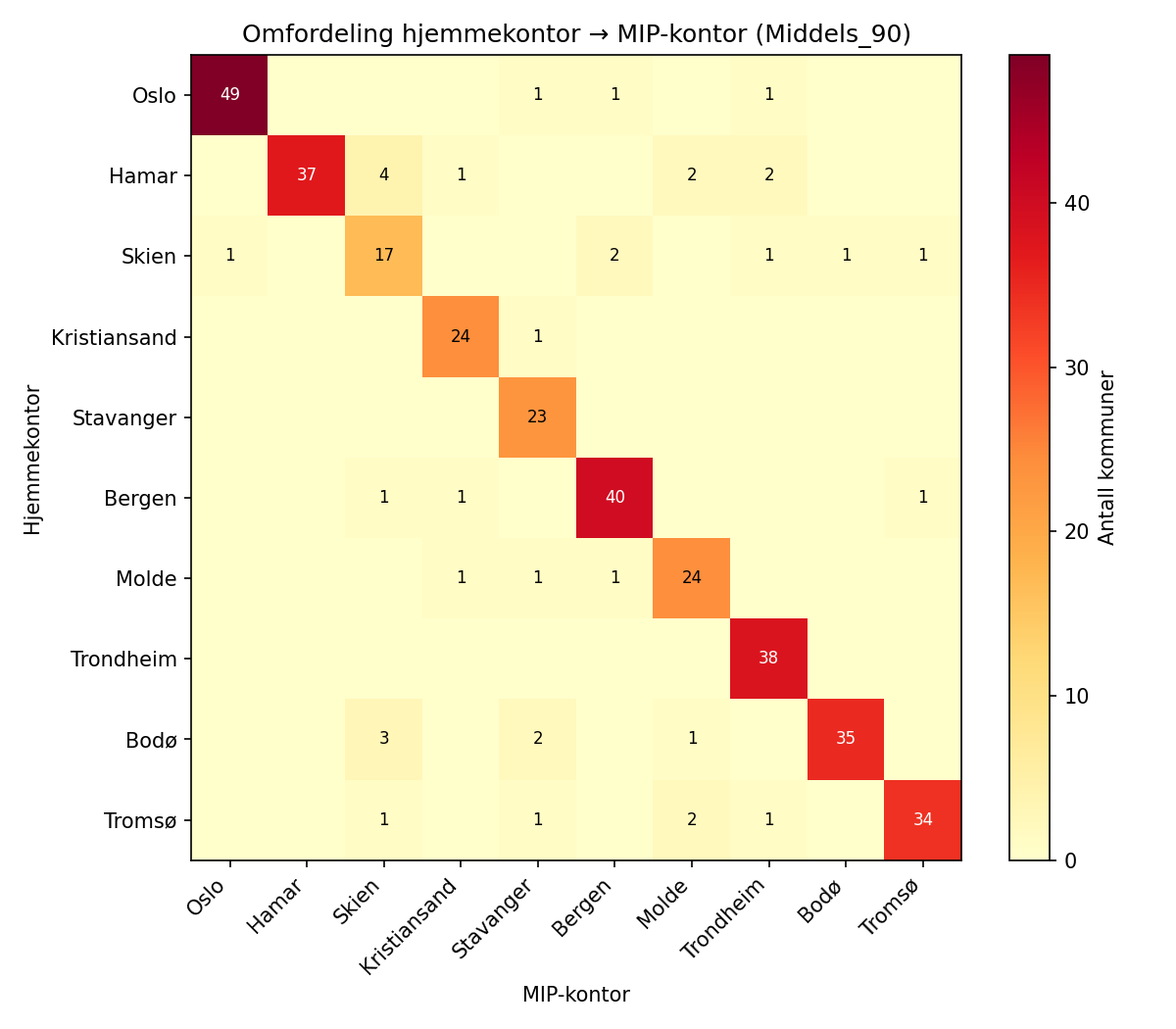
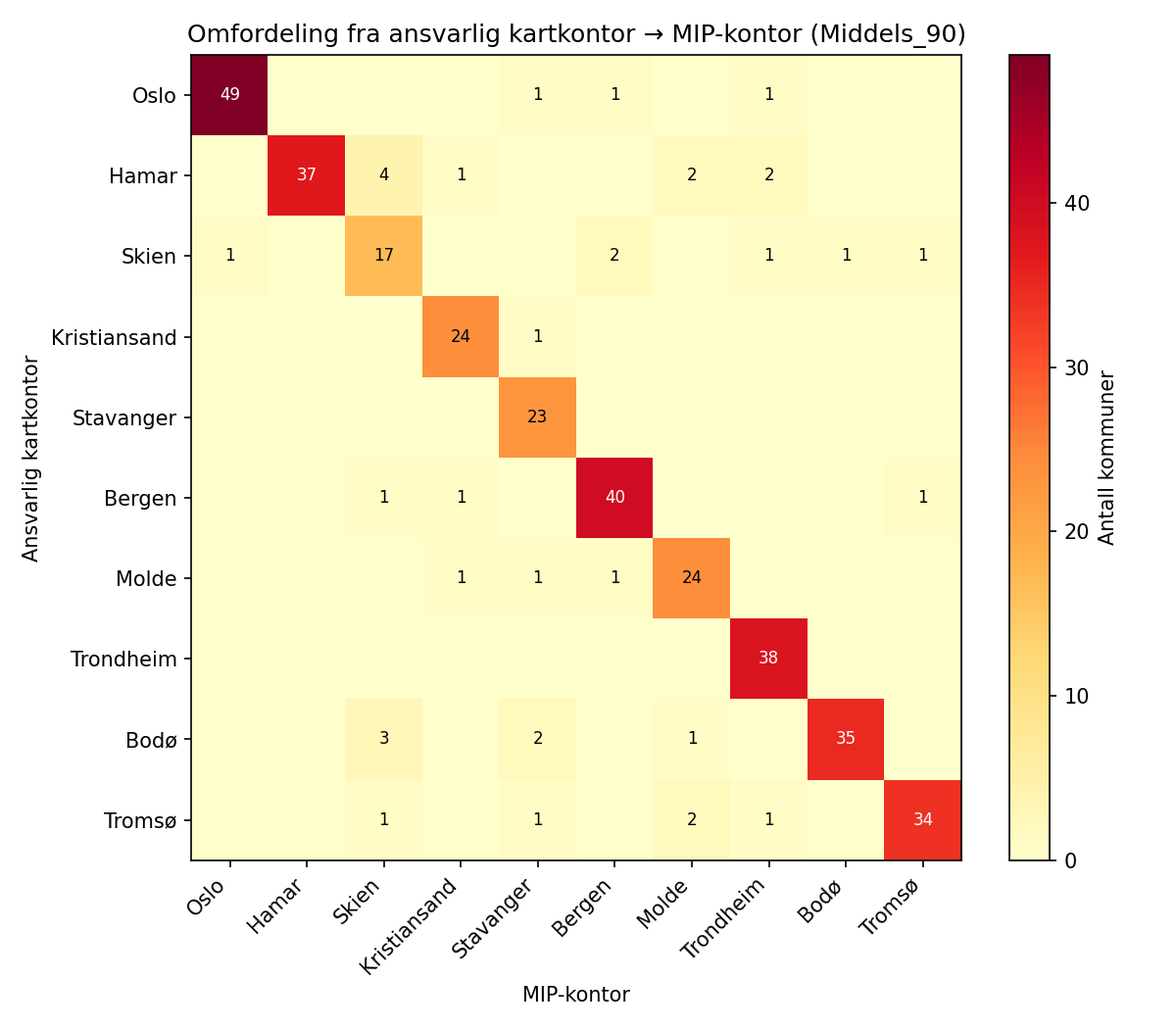
terminologi: hjemmekontor -> ansvarlig kartkontor
Erstatter "hjemmekontor" gjennomgående i synlig sluttprodukt:
- 005 report/rapport.md (14 forekomster i 4.3, 5.1.3, 6.1, 6.2.4, 7.1,
  7.3, 7.5, 8.1, 9.5; MIP-formel y_{i,hjem(i)} -> y_{i,ans(i)})
- 005 report/figurer/16_omfordeling_matrise.png (regenerert)
- 004 data/scripts/figurer_mip.py (akse-tekst og figurtittel)
- 004 data/scripts/{mip_modell,mip_kapasitet_sensitivitet,
  monte_carlo_mip,analyser_rekkefolge}.py (kommentarer)
- CLAUDE.md (historikk-tekst)

CSV-kolonnen Hjemmekontor i tidsplan_mip_*.csv og mip_sensitivitet_*.csv
beholdes uendret for naa - omdoping krever rerun av MIP-modell
(~16-65 min) og kapasitets-sensitivitet (~17 t bakgrunn). Utsatt til
etter peer review-fristen 29.04. Notert som TODO i CLAUDE.md.

Bakgrunn: "hjemmekontor" har dobbelttyding (work-from-home vs. kommunens
forvaltningsansvarlige kartkontor). "Ansvarlig kartkontor" er presist og
gjenspeiler at hver kommune har ett kartkontor med forvaltningsansvar.

Changed region(s): [[0.1542, 0.0, 0.8325, 0.061], [0.0, 0.3352, 0.0308, 0.5486]]

diff --git a/004 data/scripts/mip_modell.py b/004 data/scripts/mip_modell.py
@@ -361,7 +361,7 @@ def solve_vektet(prob, data, tidsgrense=SOLVER_TIDSGRENSE_SEK, gap=MIP_GAP, msg=
     Prioritering:
       1. makespan (W1 dominerer)
       2. kartkontor-ferdigtid tidlig (W2 dominerer inertia)
-      3. inertia: behold hjemmekontor ved like objektiv
+      3. inertia: behold ansvarlig kartkontor ved like objektiv
 
     w2_scale multipliserer W2. Verdi < 1 svekker kartkontor-ferdigtid-prioritet
     og gir mer vekt til inertia. Brukes til aa undersoke om faerre omfordelinger
@@ -568,8 +568,9 @@ def lagre_tidsplan(data, losning, mode='lex'):
     rader = []
     # Aktive kommuner (med MIP-assignment).
     # Ved Not Solved-timeout kan enkelte kommuner ha fraksjonelle y-verdier
-    # (ingen y > 0,5); disse faller tilbake til hjemmekontor og telles ikke
-    # som omfordelt, konsistent med Monte Carlo-tolkningen.
+    # (ingen y > 0,5); disse faller tilbake til ansvarlig kartkontor og telles
+    # ikke som omfordelt, konsistent med Monte Carlo-tolkningen.
+    # NB: CSV-kolonnen heter fortsatt 'Hjemmekontor' (utsatt rerun, se CLAUDE.md).
     for a in data['aktive']:
         kn = a['KomNr']
         kk_mnd = losning['ferdig_kk'].get(kn)
@@ -696,7 +697,7 @@ def main():
         print(f'  Makespan (mnd): {losning["makespan_mnd"]}')
         print(f'  Makespan (aar): {losning["makespan_mnd"] / 12:.2f}')
         # Kommuner uten y > 0,5 (Not Solved-fraksjonelle) faller tilbake til
-        # hjemmekontor og telles ikke som omfordelt. Konsistent med
+        # ansvarlig kartkontor og telles ikke som omfordelt. Konsistent med
         # lagre_tidsplan og monte_carlo_mip-tolkningen.
         n_reassigned = sum(
             1 for a in data['aktive']

diff --git a/004 data/scripts/figurer_mip.py b/004 data/scripts/figurer_mip.py
@@ -4,7 +4,7 @@ Figurer for MIP-modellering (Bolk E).
 Produserer figurer 14-19 i 005 report/figurer/.
   14 heuristikk_vs_mip.png      - makespan sammenligning per scenario
   15 kartkontor_ferdig.png      - fordeling av kartkontor-ferdigtid, heur vs MIP
-  16 omfordeling_matrise.png    - heatmap hjemmekontor -> MIP-kontor
+  16 omfordeling_matrise.png    - heatmap ansvarlig kartkontor -> MIP-kontor
   17 fanchart_mip.png           - kumulativ NVDB med MC-baand for MIP-plan
   18 kapasitet_sensitivitet.png - makespan per kapasitetsvariant (Bolk B)
   19 omfordeling_varianter.png  - antall omfordelte per variant
@@ -127,8 +127,8 @@ def fig16_omfordeling_matrise(scenario='Middels_90'):
     ax.set_yticks(range(len(ordre)))
     ax.set_yticklabels(ordre)
     ax.set_xlabel('MIP-kontor')
-    ax.set_ylabel('Hjemmekontor')
-    ax.set_title(f'Omfordeling hjemmekontor → MIP-kontor ({scenario})')
+    ax.set_ylabel('Ansvarlig kartkontor')
+    ax.set_title(f'Omfordeling fra ansvarlig kartkontor → MIP-kontor ({scenario})')
     for i in range(len(ordre)):
         for j in range(len(ordre)):
             v = matrise.values[i, j]

diff --git a/004 data/scripts/mip_kapasitet_sensitivitet.py b/004 data/scripts/mip_kapasitet_sensitivitet.py
@@ -77,8 +77,9 @@ def juster_kapasitet(kontorer_df, endring):
 
 def lagre_tidsplan(data, losning, filnavn):
     # Ved Not Solved-timeout kan enkelte kommuner ha fraksjonelle y-verdier
-    # (ingen y > 0,5); disse faller tilbake til hjemmekontor og telles ikke
-    # som omfordelt, konsistent med Monte Carlo-tolkningen.
+    # (ingen y > 0,5); disse faller tilbake til ansvarlig kartkontor og telles
+    # ikke som omfordelt, konsistent med Monte Carlo-tolkningen.
+    # NB: CSV-kolonnen heter fortsatt 'Hjemmekontor' (utsatt rerun, se CLAUDE.md).
     rader = []
     for a in data['aktive']:
         kn = a['KomNr']
@@ -152,7 +153,7 @@ def main():
 
             los = ekstraher_loesning(prob, data)
             # Kommuner uten y > 0,5 (Not Solved-fraksjonelle) faller tilbake
-            # til hjemmekontor og telles ikke som omfordelt.
+            # til ansvarlig kartkontor og telles ikke som omfordelt.
             n_reassigned = sum(
                 1 for a in data['aktive']
                 if (los['assignment'].get(a['KomNr']) or a['Hjemmekontor']) != a['Hjemmekontor']

diff --git a/004 data/scripts/monte_carlo_mip.py b/004 data/scripts/monte_carlo_mip.py
@@ -2,7 +2,7 @@
 Monte Carlo usikkerhetsanalyse med MIP-assignment som fast tildeling.
 
 Leser tidsplan_mip_vektet_<scenario>.csv (MIP's optimale tildeling per kommune),
-overstyrer hjemmekontor-tildelingen i master_kommuner slik at heuristikkens
+overstyrer ansvarlig-kartkontor-tildelingen i master_kommuner slik at heuristikkens
 simulator bruker MIP-tildelingen, og kjorer deretter eksisterende Monte Carlo-
 motor med samme 500 iterasjoner og 3 stokastiske kilder.
 

diff --git a/004 data/scripts/analyser_rekkefolge.py b/004 data/scripts/analyser_rekkefolge.py
@@ -4,7 +4,7 @@ Spor: hvor robust er kommune-rekkefolgen?
 - Heuristikk vs MIP
 - Pa tvers av 3 NVDB-scenarioer
 - Per kontor: hvilke kommuner gar alltid forst/sist?
-- Effekt av storrelse, lasing, hjemmekontor-tilhorighet?
+- Effekt av storrelse, lasing, ansvarlig-kartkontor-tilhorighet?
 """
 
 import sys

diff --git a/005 report/rapport.md b/005 report/rapport.md
@@ -191,7 +191,7 @@ Kartkontor (kvalitetsheving) ──► Samferdselsavdelingen (NVDB-overføring v
 
 ## 4.3 De 10 fylkeskartkontorene
 
-Kartverket har 10 fylkeskartkontor som hver i dag har ansvar for sine fylker, og hver kommune kvalitetsheves av sitt "hjemme-kontor". Denne geografiske tildelingen er prosjektets utgangspunkt, men ikke en fastlåst begrensning: ett av hovedspørsmålene i analysen er om total varighet kan reduseres ved å omfordele kommuner mellom kontor, slik at kontor med god kapasitet avlaster kontor med høy arbeidsbelastning.
+Kartverket har 10 fylkeskartkontor som hver i dag har ansvar for sine fylker, og hver kommune kvalitetsheves av sitt ansvarlige kartkontor. Denne geografiske tildelingen er prosjektets utgangspunkt, men ikke en fastlåst begrensning: ett av hovedspørsmålene i analysen er om total varighet kan reduseres ved å omfordele kommuner mellom kontor, slik at kontor med god kapasitet avlaster kontor med høy arbeidsbelastning.
 
 ![Figur 1: Fylkeskartkontor og antall kommuner per kontor](figurer/01_kart_kontorer.png)
 
@@ -267,7 +267,7 @@ MIP-modellen har en vektet lex-opt-målfunksjon med tre nivåer:
 
 $$\min\; W_1 \cdot \text{makespan} + W_2 \cdot \text{kartkontor-ferdigtid} + \text{inertia}$$
 
-der $W_1 \gg W_2 \cdot \max(\text{kartkontor-ferdigtid}) + \max(\text{inertia})$ og $W_2 \gg \max(\text{inertia})$. Prioritet 1 er total varighet (NVDB-fasen), prioritet 2 er komprimering av kartkontor-fasen, prioritet 3 er å beholde hjemmekontor-tildeling ved like løsninger. Dette gir en enkeltpass-løsning som kombinerer effektivitet med matematisk korrekthet. Metoden er raskere og mer stabil enn sekvensiell lex-opt, og gir identiske makespan-resultater. Inertia-termen er essensiell for å hindre MIP i å omfordele kommuner "gratis" som ikke bidrar til målfunksjonen.
+der $W_1 \gg W_2 \cdot \max(\text{kartkontor-ferdigtid}) + \max(\text{inertia})$ og $W_2 \gg \max(\text{inertia})$. Prioritet 1 er total varighet (NVDB-fasen), prioritet 2 er komprimering av kartkontor-fasen, prioritet 3 er å beholde ansvarskontor-tildeling ved like løsninger. Dette gir en enkeltpass-løsning som kombinerer effektivitet med matematisk korrekthet. Metoden er raskere og mer stabil enn sekvensiell lex-opt, og gir identiske makespan-resultater. Inertia-termen er essensiell for å hindre MIP i å omfordele kommuner "gratis" som ikke bidrar til målfunksjonen.
 
 ### 5.1.4 NVDB-throughput-formel og dens struktur
 
@@ -397,7 +397,7 @@ $$t_i = \frac{\tau_i}{60} \cdot \frac{\ell^{\text{rest}}_i}{\ell_i}$$
 
 der $\tau_i$ er beregnet tidsbruk i minutter (fra formel 5.2.3), $\ell^{\text{rest}}_i$ er gjenstående lenker og $\ell_i$ er totale lenker. Kommuner med status "Ferdig" (62 stk.) plasseres direkte i NVDB-kø fra STARTDATO.
 
-**Steg 2: Prioriteringskø per kontor.** Kommuner tildeles hjemmekontor basert på fylkestilhørighet (baseline — omfordeling utforskes i MIP). Innenfor hvert kontor sorteres kommuner etter:
+**Steg 2: Prioriteringskø per kontor.** Kommuner tildeles ansvarlig kartkontor basert på fylkestilhørighet (baseline — omfordeling utforskes i MIP). Innenfor hvert kontor sorteres kommuner etter:
 
 1. Låst på STARTDATO → plasseres sist
 2. Ikke-låste → størst først (flest gjenværende timer)
@@ -410,7 +410,7 @@ Regel 2 er en Longest Processing Time-heuristikk (Graham, 1969), som for paralle
 - Hvert kontor arbeider på første ikke-låste kommune i køen med daglig kapasitet $\kappa_j = K_j \cdot 37{,}5 \cdot (245/260) / 260$ timer (der $K_j$ er oppgitt kapasitet i ukesverk, 260 er antall mandag-fredag-dager per år, og 245/260-faktoren reflekterer at kontorene har ca. 245 effektive arbeidsdager pga ferieuttak — se 5.1.2). Når en kommune når 0 gjenværende timer, flyttes den til NVDB-køen.
 - Hvis dagen er etter NVDB-startdato, drenerer NVDB-køen med scenariets kapasitet (1 000 / 1 500 / 3 750 lenker/dag for hhv. Basis_85 / Middels_90 / Samferdsel_96 etter kalibrering mot samferdselsavdelingens tall, jf. 5.1.4).
 
-**Bevisste forenklinger.** Heuristikken modellerer ikke ferier/pauser, individuell effektivitet eller oppstartskostnad ved kommuneskifte. Hjemmekontor-tildelingen er status quo (baseline) — omfordeling er en kjernebeslutning som undersøkes i MIP. Prioritetskøen fastsettes én gang ved simuleringsstart og revurderes ikke når låseperioder utløper; dette er en bevisst myopisk forenkling som MIP-modellen ikke deler, fordi MIP ser over hele horisonten. NVDB-køen bygges i rekkefølgen kommunene blir ferdige på kartkontoret (FCFS) — store kommuner tar lengst tid og havner dermed implisitt bakerst i NVDB-overføringen. Samferdselsavdelingen kan teoretisk prioritere annerledes, men reell NVDB-rekkefølge er utenfor prosjektets omfang.
+**Bevisste forenklinger.** Heuristikken modellerer ikke ferier/pauser, individuell effektivitet eller oppstartskostnad ved kommuneskifte. Ansvarskontor-tildelingen er status quo (baseline) — omfordeling er en kjernebeslutning som undersøkes i MIP. Prioritetskøen fastsettes én gang ved simuleringsstart og revurderes ikke når låseperioder utløper; dette er en bevisst myopisk forenkling som MIP-modellen ikke deler, fordi MIP ser over hele horisonten. NVDB-køen bygges i rekkefølgen kommunene blir ferdige på kartkontoret (FCFS) — store kommuner tar lengst tid og havner dermed implisitt bakerst i NVDB-overføringen. Samferdselsavdelingen kan teoretisk prioritere annerledes, men reell NVDB-rekkefølge er utenfor prosjektets omfang.
 
 ## 6.2 MIP-formulering
 
@@ -494,12 +494,12 @@ Vi ønsker primært å minimere makespan $M = \sum_t Q_t$ (antall måneder før 
 
 For å finne en **realistisk** optimal plan brukes en leksikografisk målfunksjon som én-pass vektet sum:
 
-$$\min \; W_1 \cdot M + W_2 \cdot \sum_{i \in I} \sum_{t \in T} \tau_i (1 - z_{it}) + \sum_{i \in I} (1 - y_{i, \text{hjem}(i)})$$
+$$\min \; W_1 \cdot M + W_2 \cdot \sum_{i \in I} \sum_{t \in T} \tau_i (1 - z_{it}) + \sum_{i \in I} (1 - y_{i, \text{ans}(i)})$$
 
 der:
 - Første ledd (primær): makespan
 - Andre ledd (sekundær): sum av $\tau_i \times$ (antall måneder ikke ferdig) — straffer sen kartkontor-ferdigstilling
-- Tredje ledd (tertiær inertia): straffer omfordeling fra hjemmekontor — tie-breaker mot degenererte løsninger
+- Tredje ledd (tertiær inertia): straffer omfordeling fra ansvarlig kartkontor — tie-breaker mot degenererte løsninger
 
 Vektene $W_1 \approx 10^{10}$, $W_2 \approx 10^3$ sikrer at primær > sekundær > tertiær. Denne strukturen gir én solver-runde og unngår numeriske feil fra separate lex-opt-runder.
 
@@ -525,7 +525,7 @@ Heuristikken (`heuristikk.py`) og Monte Carlo-motoren (`monte_carlo.py`) er impl
 
 ## 7.1 MIP vs. heuristikk — makespan
 
-Tabell 7.1 sammenligner total prosjektvarighet for heuristikken og MIP-modellen over de tre NVDB-scenarioene. MIP-modellen bruker vektet målfunksjon med tre lex-nivåer: makespan, kartkontor-ferdigtid og inertia (bevar hjemmekontor ved like løsninger). Middels_90 og Samferdsel_96 løser *Optimal* innen henholdsvis 16 og 10 minutter; Basis_85 ender som *Not Solved* ved 30-minutters tidsgrense (faktisk kjøretid drøyt 38 minutter siden CBC fullfører gjeldende B&B-node etter timeout), men returnerer en gyldig IP-feasible løsning hvor makespan er big-M-koblet til Q-variablene og dermed robust (jf. 7.4). Forskjellen i status mellom scenarioene reflekterer at lavere NVDB-throughput gir lengre horisont (T = 144 vs 81 vs 33 måneder) og dermed flere variabler.
+Tabell 7.1 sammenligner total prosjektvarighet for heuristikken og MIP-modellen over de tre NVDB-scenarioene. MIP-modellen bruker vektet målfunksjon med tre lex-nivåer: makespan, kartkontor-ferdigtid og inertia (bevar ansvarskontor-tildelingen ved like løsninger). Middels_90 og Samferdsel_96 løser *Optimal* innen henholdsvis 16 og 10 minutter; Basis_85 ender som *Not Solved* ved 30-minutters tidsgrense (faktisk kjøretid drøyt 38 minutter siden CBC fullfører gjeldende B&B-node etter timeout), men returnerer en gyldig IP-feasible løsning hvor makespan er big-M-koblet til Q-variablene og dermed robust (jf. 7.4). Forskjellen i status mellom scenarioene reflekterer at lavere NVDB-throughput gir lengre horisont (T = 144 vs 81 vs 33 måneder) og dermed flere variabler.
 
 *Tabell 7.1 Makespan per metode og NVDB-scenario*
 
@@ -535,7 +535,7 @@ Tabell 7.1 sammenligner total prosjektvarighet for heuristikken og MIP-modellen 
 | Middels_90 | 6,72 | 6,75 | +0,03 (+0,4 %) | Optimal |
 | Samferdsel_96 | 2,69 | 2,75 | +0,06 (+2,2 %) | Optimal |
 
-Alle differansene er under 2,5 % og skyldes MIP-modellens månedlige tidsoppløsning (hver måned avrundes opp ved kollisjon med NVDB-drenering). I praksis gir de to metodene *tilnærmet identisk makespan*. Dette er et positivt funn: **MIP bekrefter at heuristikkens hjemmekontor-tildeling er nær-optimal for makespan**, snarere enn å gi en reell forbedring. MIP-modellens bidrag er altså todelt — den leverer en uavhengig verifikasjon av heuristikken, og den leverer en komprimert kartkontor-ferdigprofil via lex-opt-prioritet (se 7.2). Figur 14 visualiserer resultatene.
+Alle differansene er under 2,5 % og skyldes MIP-modellens månedlige tidsoppløsning (hver måned avrundes opp ved kollisjon med NVDB-drenering). I praksis gir de to metodene *tilnærmet identisk makespan*. Dette er et positivt funn: **MIP bekrefter at heuristikkens ansvarskontor-tildeling er nær-optimal for makespan**, snarere enn å gi en reell forbedring. MIP-modellens bidrag er altså todelt — den leverer en uavhengig verifikasjon av heuristikken, og den leverer en komprimert kartkontor-ferdigprofil via lex-opt-prioritet (se 7.2). Figur 14 visualiserer resultatene.
 
 ![Figur 14: Total varighet heuristikk vs MIP per NVDB-scenario](figurer/14_heuristikk_vs_mip.png)
 
@@ -567,11 +567,11 @@ Figur 10 viser kartkontorenes kumulative fremdrift over tid for baseline-heurist
 
 ## 7.3 Omfordeling mellom kontor
 
-MIP-modellen har full frihet til å reassigne kommuner mellom kartkontor, men inertia-tie-breakeren favoriserer hjemmekontor-tildeling i tilfeller hvor flere løsninger gir samme makespan. Resultatet (figur 16) viser at 27–71 kommuner flyttes avhengig av scenario, men disse er hovedsakelig tie-breakere for kartkontor-ferdigtid: ingen kommuner *må* omfordeles for å oppnå optimal makespan. Antallet varierer mellom 27 (Basis_85) og 71 (Samferdsel_96) på tvers av scenarioene; mønsteret reflekterer i hovedsak at vektet objektiv har flere likeverdige incumbenter, og CBC kan velge ulike kombinasjoner per scenario. Diagonalen dominerer i matrisen — kommuner blir i hovedsak værende på hjemmekontor — noe som bekrefter at status quo-tildelingen er nær-optimal. Det er verdt å merke at modellen regner omfordeling som "gratis" — den reelle organisatoriske kostnaden av at en kommune flyttes fra sitt geografiske fylkeskartkontor til et annet (arbeidskjennskap, kommunikasjon, kartverksprosesser) er ikke modellert og drøftes i 9.0.
+MIP-modellen har full frihet til å reassigne kommuner mellom kartkontor, men inertia-tie-breakeren favoriserer ansvarskontor-tildelingen i tilfeller hvor flere løsninger gir samme makespan. Resultatet (figur 16) viser at 27–71 kommuner flyttes avhengig av scenario, men disse er hovedsakelig tie-breakere for kartkontor-ferdigtid: ingen kommuner *må* omfordeles for å oppnå optimal makespan. Antallet varierer mellom 27 (Basis_85) og 71 (Samferdsel_96) på tvers av scenarioene; mønsteret reflekterer i hovedsak at vektet objektiv har flere likeverdige incumbenter, og CBC kan velge ulike kombinasjoner per scenario. Diagonalen dominerer i matrisen — kommuner blir i hovedsak værende på ansvarlig kartkontor — noe som bekrefter at status quo-tildelingen er nær-optimal. Det er verdt å merke at modellen regner omfordeling som "gratis" — den reelle organisatoriske kostnaden av at en kommune flyttes fra sitt geografiske fylkeskartkontor til et annet (arbeidskjennskap, kommunikasjon, kartverksprosesser) er ikke modellert og drøftes i 9.0.
 
-![Figur 16: Omfordeling hjemmekontor til MIP-kontor for Middels_90](figurer/16_omfordeling_matrise.png)
+![Figur 16: Omfordeling fra ansvarlig kartkontor til MIP-kontor for Middels_90](figurer/16_omfordeling_matrise.png)
 
-*Figur 16 Omfordeling hjemmekontor til MIP-kontor for Middels_90*
+*Figur 16 Omfordeling fra ansvarlig kartkontor til MIP-kontor for Middels_90*
 
 ## 7.4 Kapasitets-sensitivitet
 
@@ -601,7 +601,7 @@ Antallet omfordelte kommuner varierer mellom variantene (figur 19), noe som refl
 
 ## 7.5 Usikkerhetsanalyse
 
-Monte Carlo-simuleringen (500 iterasjoner per scenario × tre stokastiske kilder) kjøres både med heuristikkens hjemmekontor-tildeling og med MIP-ens optimerte tildeling som fast plan. Totalvarighet-båndene er overlappende og nær identiske (tabell 7.2). For Basis_85 og Middels_90 gir de to planene *identiske* percentiler (P5 / P50 / P95). For Samferdsel_96 er P5 marginalt bedre på MIP-planen (1,10 år vs 1,38), mens P50 og P95 er like. Dette viser at de to tildelingsregimene er omtrent likeverdige når det gjelder robusthet mot modellens stokastiske kilder, siden NVDB-overføringen dominerer varigheten i alle iterasjoner. Kartkontor-fasen blir derimot merkbart raskere på MIP-planen (P50 kartkontor-varighet 445–452 dager mot heuristikkens 510 dager) — en konsekvens av MIPens mer aktive omfordeling. Denne forskjellen er skjult i total varighet fordi NVDB-slakken absorberer den, men er reell fra et organisatorisk synspunkt.
+Monte Carlo-simuleringen (500 iterasjoner per scenario × tre stokastiske kilder) kjøres både med heuristikkens ansvarskontor-tildeling og med MIP-ens optimerte tildeling som fast plan. Totalvarighet-båndene er overlappende og nær identiske (tabell 7.2). For Basis_85 og Middels_90 gir de to planene *identiske* percentiler (P5 / P50 / P95). For Samferdsel_96 er P5 marginalt bedre på MIP-planen (1,10 år vs 1,38), mens P50 og P95 er like. Dette viser at de to tildelingsregimene er omtrent likeverdige når det gjelder robusthet mot modellens stokastiske kilder, siden NVDB-overføringen dominerer varigheten i alle iterasjoner. Kartkontor-fasen blir derimot merkbart raskere på MIP-planen (P50 kartkontor-varighet 445–452 dager mot heuristikkens 510 dager) — en konsekvens av MIPens mer aktive omfordeling. Denne forskjellen er skjult i total varighet fordi NVDB-slakken absorberer den, men er reell fra et organisatorisk synspunkt.
 
 *Tabell 7.2 Usikkerhetsbånd totalvarighet (P5 / P50 / P95, år) – MIP-plan og heuristikk-plan*
 
@@ -645,7 +645,7 @@ Den hybride løsningsmetoden (regelbasert heuristikk + MIP-verifikasjon + Monte 
    - Middels_90: 3,25 / 6,67 / 9,91 år
    - Samferdsel_96: 1,38 / 2,36 / 5,88 år
 
-3. **Omfordeling mellom kartkontor:** gir *ingen* forbedring i total makespan i noen av de tre NVDB-scenarioene. MIP-modellen bekrefter at heuristikkens hjemmekontor-tildeling er nær-optimal (innenfor 2,2 % av MIP-ens løsning, forskjellen skyldes tidsoppløsning, ikke assignment). **MIP-modellens bidrag er å verifisere heuristikken og komprimere kartkontor-ferdigprofilen**, ikke å redusere totalvarighet.
+3. **Omfordeling mellom kartkontor:** gir *ingen* forbedring i total makespan i noen av de tre NVDB-scenarioene. MIP-modellen bekrefter at heuristikkens ansvarskontor-tildeling er nær-optimal (innenfor 2,2 % av MIP-ens løsning, forskjellen skyldes tidsoppløsning, ikke assignment). **MIP-modellens bidrag er å verifisere heuristikken og komprimere kartkontor-ferdigprofilen**, ikke å redusere totalvarighet.
 
 4. **Kartkontor-ferdigstilling:** alt kartkontor-arbeid fullføres innen 10–17 måneder i alle scenarioer (MIP 10–11 mnd, heuristikk opp til 16,5). Kartkontorene er ikke flaskehalsen.
 
@@ -728,7 +728,7 @@ Median (P50) er praktisk talt uendret på tvers av std-verdier — det betyr at 
 
 ## 9.5 Modellens begrensninger for sensoren
 
-**MIP som "forbedring" — nyansert.** MIP er marginalt verre enn heuristikken på makespan (+0,4–2,2 %) pga. månedlig vs. daglig tidsoppløsning. Den riktige tolkningen er at MIP leverer to andre verdier: (i) *uavhengig verifikasjon* av at heuristikkens hjemmekontor-tildeling er nær-optimal — et sterkt validitetssignal når to ulike metoder konvergerer, og (ii) *komprimert kartkontor-ferdigprofil* — MIP-planen gir kartkontor-fasen ferdig ~2 måneder før heuristikken (P50 Monte Carlo: 445–452 dager vs 510). Ingen av disse reduserer totalvarigheten, men begge har organisatorisk verdi.
+**MIP som "forbedring" — nyansert.** MIP er marginalt verre enn heuristikken på makespan (+0,4–2,2 %) pga. månedlig vs. daglig tidsoppløsning. Den riktige tolkningen er at MIP leverer to andre verdier: (i) *uavhengig verifikasjon* av at heuristikkens ansvarskontor-tildeling er nær-optimal — et sterkt validitetssignal når to ulike metoder konvergerer, og (ii) *komprimert kartkontor-ferdigprofil* — MIP-planen gir kartkontor-fasen ferdig ~2 måneder før heuristikken (P50 Monte Carlo: 445–452 dager vs 510). Ingen av disse reduserer totalvarigheten, men begge har organisatorisk verdi.
 
 **Kapasitets-sensitivitetens lave kontrast.** Den deterministiske kapasitets-sensitiviteten (S0–S5) viser identisk makespan på tvers av alle seks varianter. Kartkontor-ferdigtiden er også stabil (10–11 måneder i S0–S4, 14 måneder i S5 med halvert kapasitet), fordi Geovekst-låseperiodene tvinger kontorene til ufrivillig slakk på 152 kommuner i deler av 2026. Denne slakken absorberer kapasitetskuttet og holder kartkontor-fasen kort. For Kartverket betyr dette at dagens plan er *mer* robust mot kapasitetsreduksjon enn man umiddelbart skulle tro ut fra ukesverk-tallene alene.
 

diff --git a/CLAUDE.md b/CLAUDE.md
@@ -262,9 +262,9 @@ Horisonter (etter kalibrering 2026-04-20, Samferdsel_96 utvidet 2026-04-23 etter
 | Middels_90 | 6,72 år | 6,75 år | −0,4 % | 36 / 295 | Optimal | 989 s |
 | Samferdsel_96 | 2,69 år | 2,75 år | −2,2 % | 71 / 295 | Optimal | 609 s |
 
-**Hovedfunn**: MIP bekrefter at heuristikkens hjemmekontor-assignment er nær optimal for makespan. <2,2 % forskjell skyldes månedlig vs. daglig tidsoppløsning. Omfordelingene er ikke nødvendige for makespan — NVDB er konsistent flaskehals og kartkontor-delen er ferdig innen 10-11 måneder (MIP) eller ~16,5 måneder (heuristikk) i alle scenarioer.
+**Hovedfunn**: MIP bekrefter at heuristikkens ansvarskontor-tildeling er nær optimal for makespan. <2,2 % forskjell skyldes månedlig vs. daglig tidsoppløsning. Omfordelingene er ikke nødvendige for makespan — NVDB er konsistent flaskehals og kartkontor-delen er ferdig innen 10-11 måneder (MIP) eller ~16,5 måneder (heuristikk) i alle scenarioer.
 
-**Post-245-fiks:** makespan uendret i alle 3 scenarioer (NVDB dominerer). Min_Kartkontor_Mnd matematisk grense: 6,8 → 7,2 mnd (~6 % økning fra 245/260-faktor). Kartkontor-ferdig-måned i MIP uendret (10/10/11 mnd, median 4 mnd). Omfordelingsmønsteret endret: Basis 97→27, Middels 76→36, Samferdsel 54→71 — dette er ikke et systematisk skift men reflekterer at vektet objektiv har flere nær-optimale assignmenter, og CBC kan finne ulike incumbenter. Basis_85 er nå Not Solved ved 1800s timeout (var Optimal pre-245); løsningen er IP-feasible men ikke bevist optimal — 2 kommuner (3305 Ringerike, 5610 Kárášjohka-Karasjok) endte med fraksjonelle y-verdier (ingen y > 0,5) og er telt som ikke-omfordelt (faller tilbake til hjemmekontor).
+**Post-245-fiks:** makespan uendret i alle 3 scenarioer (NVDB dominerer). Min_Kartkontor_Mnd matematisk grense: 6,8 → 7,2 mnd (~6 % økning fra 245/260-faktor). Kartkontor-ferdig-måned i MIP uendret (10/10/11 mnd, median 4 mnd). Omfordelingsmønsteret endret: Basis 97→27, Middels 76→36, Samferdsel 54→71 — dette er ikke et systematisk skift men reflekterer at vektet objektiv har flere nær-optimale assignmenter, og CBC kan finne ulike incumbenter. Basis_85 er nå Not Solved ved 1800s timeout (var Optimal pre-245); løsningen er IP-feasible men ikke bevist optimal — 2 kommuner (3305 Ringerike, 5610 Kárášjohka-Karasjok) endte med fraksjonelle y-verdier (ingen y > 0,5) og er telt som ikke-omfordelt (faller tilbake til ansvarlig kartkontor).
 
 ### Solver-valg: CBC (gratis, innebygd i PuLP)
 
@@ -288,7 +288,7 @@ CBC-særegenhet: enkelte kjøringer stopper tidlig med status "Optimal" før B&B
 
 **Solver-status:** 9 av 18 kjøringer løser Optimal (S0 Middels/Samferdsel; S1 Middels; S2 alle tre; S3 Middels/Samferdsel; S4 Basis_85). 9/18 er Not Solved ved timeout 30 min — lavere kapasitet og strammere MIP_GAP=0,001 gjør problemet vanskeligere for CBC, men makespan-tallene er robuste (big-M-gated via Q_t). Omfordelings- og kartkontor-ferdigtall for Not Solved-kjøringene er IP-feasible incumbenter, men ikke bevist optimale.
 
-**Phantom-omfordelings-fix (2026-04-26):** lagre_tidsplan og n_reassigned i mip_modell.py og mip_kapasitet_sensitivitet.py er fikset til å falle tilbake til Hjemmekontor for kommuner uten klar y-tildeling (Not Solved-fraksjonelle). Dette korrigerte phantom-omfordelinger på 2-8 i 8 av 18 sensitivitet-varianter. Effekt på rapporterte tall: S0 Basis 29→27, S1 Basis 31→28, S1 Samferdsel 31→28, S4 Middels 33→31, S4 Samferdsel 33→31, S5 Basis 20→17, S5 Middels 20→15, S5 Samferdsel 20→12. Makespan uendret i alle.
+**Phantom-omfordelings-fix (2026-04-26):** lagre_tidsplan og n_reassigned i mip_modell.py og mip_kapasitet_sensitivitet.py er fikset til å falle tilbake til ansvarlig kartkontor for kommuner uten klar y-tildeling (Not Solved-fraksjonelle). Dette korrigerte phantom-omfordelinger på 2-8 i 8 av 18 sensitivitet-varianter. Effekt på rapporterte tall: S0 Basis 29→27, S1 Basis 31→28, S1 Samferdsel 31→28, S4 Middels 33→31, S4 Samferdsel 33→31, S5 Basis 20→17, S5 Middels 20→15, S5 Samferdsel 20→12. Makespan uendret i alle.
 
 **S5_Alle_minus50:** rapporterer Kartkontor_Siste_Mnd=14 mot matematisk minimum 14,4 mnd — plausibel IP-feasible løsning, men status Not Solved. Bør dokumenteres som "nær-optimal ved timeout", ikke som gyldig bevist løsning. Etter rerun med phantom-fix: Kommuner_Omfordelt 17/15/12 i Basis/Middels/Samferdsel (nedjustert fra 20 i alle).
 
@@ -353,6 +353,10 @@ Se `STATUS.md` for detaljert fremdrift. Nåværende fokus (per 2026-04-24, fase 
 18. ⏳ Peer review (27-28. apr)
 19. ⏳ Fase 4: seksjonene 1 (ferdigstille), 3, 10 (ferdigstille) + kvalitetssikring
 
+### TODO etter peer review-fristen 29.04
+
+- **Døp om CSV-kolonnen `Hjemmekontor` til `Ansvarlig_Kartkontor`** i alle MIP-scripts (`mip_modell.py`, `mip_kapasitet_sensitivitet.py`, `monte_carlo_mip.py`, `analyser_rekkefolge.py`, `figurer_mip.py`). Krever rerun av MIP-modell (~16-65 min) + kapasitets-sensitivitet (~17 t bakgrunn) + monte_carlo_mip. Utsatt fra 2026-04-26 pga. peer review-frist; rapport.md, figur 16 og kommentarer er allerede oppdatert. Aktive CSV-er har fortsatt `Hjemmekontor` som kolonnenavn — internt, ikke synlig i sluttproduktet.
+
 ### Viktige milepæler
 
 - **29.04.2026** - Godkjent hovedutkast (11 dager unna per 2026-04-18)
@@ -389,7 +393,7 @@ Se `STATUS.md` for detaljert fremdrift. Nåværende fokus (per 2026-04-24, fase 
 - **MC P5/P50/P95 totalvarighet praktisk talt identiske** med pre-245 (NVDB dominerer): Basis 6,46/10,01/13,28; Middels 3,25/6,67/9,91; Samferdsel 1,38/2,36/5,88 år.
 - **Kartkontor-MC P50 økte:** 503 → 510 dager (+1,4 %). Matematisk minimumsgrense Min_Kartkontor_Mnd 6,8 → 7,2 mnd (+5,9 %). Heuristikk siste-ferdig 2027-09-13 → 2027-09-16 (~3 dager senere).
 - **MIP solver-kompleksitet økte:** Basis_85 nå Not Solved ved 1800s timeout (var Optimal pre-245 ved 711s). Middels og Samferdsel fortsatt Optimal.
-- **MIP-omfordelinger endret:** Basis 97→27, Middels 76→36, Samferdsel 54→71. Ikke et systematisk skift; vektet objektiv har flere nær-optimale incumbenter ved lavere kapasitet. Basis_85 har 2 kommuner med fraksjonelle y-verdier ved Not Solved-timeout (3305 Ringerike, 5610 Kárášjohka-Karasjok); disse telles som ikke-omfordelt (faller tilbake til hjemmekontor) for konsistens med Monte Carlo-tolkningen.
+- **MIP-omfordelinger endret:** Basis 97→27, Middels 76→36, Samferdsel 54→71. Ikke et systematisk skift; vektet objektiv har flere nær-optimale incumbenter ved lavere kapasitet. Basis_85 har 2 kommuner med fraksjonelle y-verdier ved Not Solved-timeout (3305 Ringerike, 5610 Kárášjohka-Karasjok); disse telles som ikke-omfordelt (faller tilbake til ansvarlig kartkontor) for konsistens med Monte Carlo-tolkningen.
 - 53 CSV arkivert i `arkiv_pre_245_fiks/` for diff-sammenligning.
 
 ### Oppsummering av økt 2026-04-23
@@ -494,7 +498,7 @@ Regenereres med: `python "004 data/scripts/figurer_usikkerhet.py"`
 |----|-----|---------|
 | 14 | `14_heuristikk_vs_mip.png` | Søyle: total varighet heuristikk vs MIP per scenario |
 | 15 | `15_kartkontor_ferdig.png` | Histogram: fordeling av kartkontor-ferdigmåned, heur vs MIP, 3 paneler |
-| 16 | `16_omfordeling_matrise.png` | Heatmap: hjemmekontor → MIP-kontor (Middels_90) |
+| 16 | `16_omfordeling_matrise.png` | Heatmap: ansvarlig kartkontor → MIP-kontor (Middels_90) |
 | 17 | *reservert for fan chart MIP (droppet — MC er identisk med heuristikk-MC)* |
 | 18 | `18_kapasitet_sensitivitet.png` | Søyle: makespan per kapasitetsvariant × scenario |
 | 19 | `19_omfordeling_varianter.png` | Søyle: antall omfordelinger per variant × scenario |
